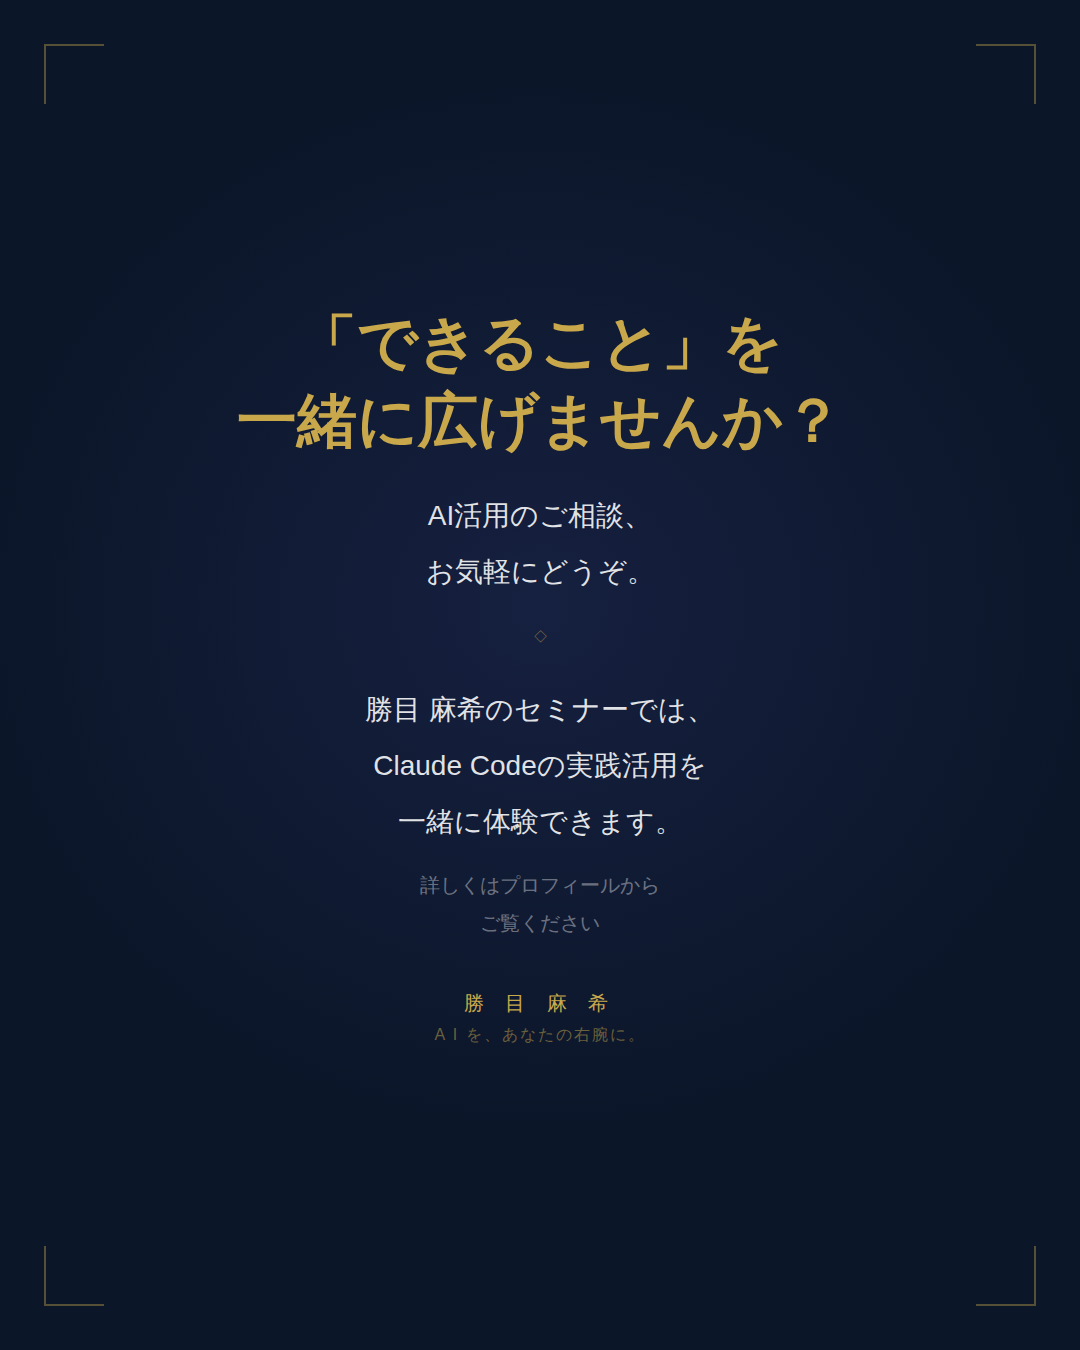
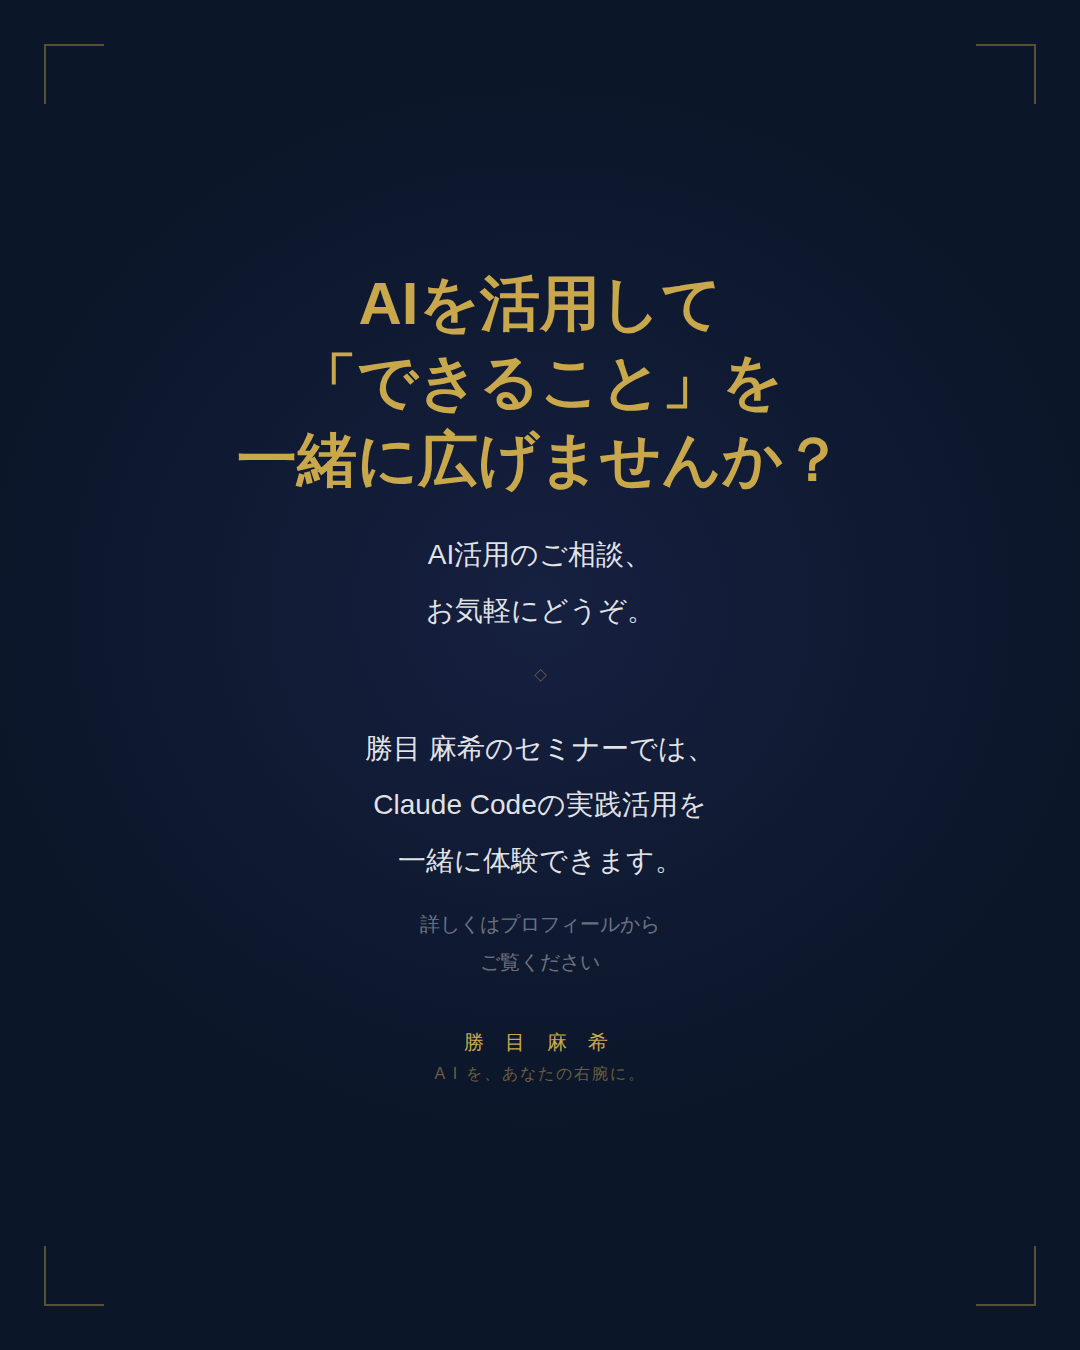
Update slide-08: add AIを活用して to heading
https://claude.ai/code/session_01Myk739NMdXCS8a9enhgTma

Changed region(s): [[0.2139, 0.1867, 0.7639, 0.4667], [0.3361, 0.4978, 0.6417, 0.8089]]

diff --git a/carousel-output-claude-code/slide-08.html b/carousel-output-claude-code/slide-08.html
@@ -34,7 +34,7 @@ h2{font-size:60px;font-weight:900;color:#c9a84c;line-height:1.3;margin-bottom:28
   <div class="cb tr"></div>
   <div class="cb bl"></div>
   <div class="cb br"></div>
-  <h2>「できること」を<br>一緒に広げませんか？</h2>
+  <h2>AIを活用して<br>「できること」を<br>一緒に広げませんか？</h2>
   <p class="sub-white">AI活用のご相談、<br>お気軽にどうぞ。</p>
   <div class="divider"><span>◇</span></div>
   <p class="body">勝目 麻希のセミナーでは、<br>Claude Codeの実践活用を<br>一緒に体験できます。</p>
